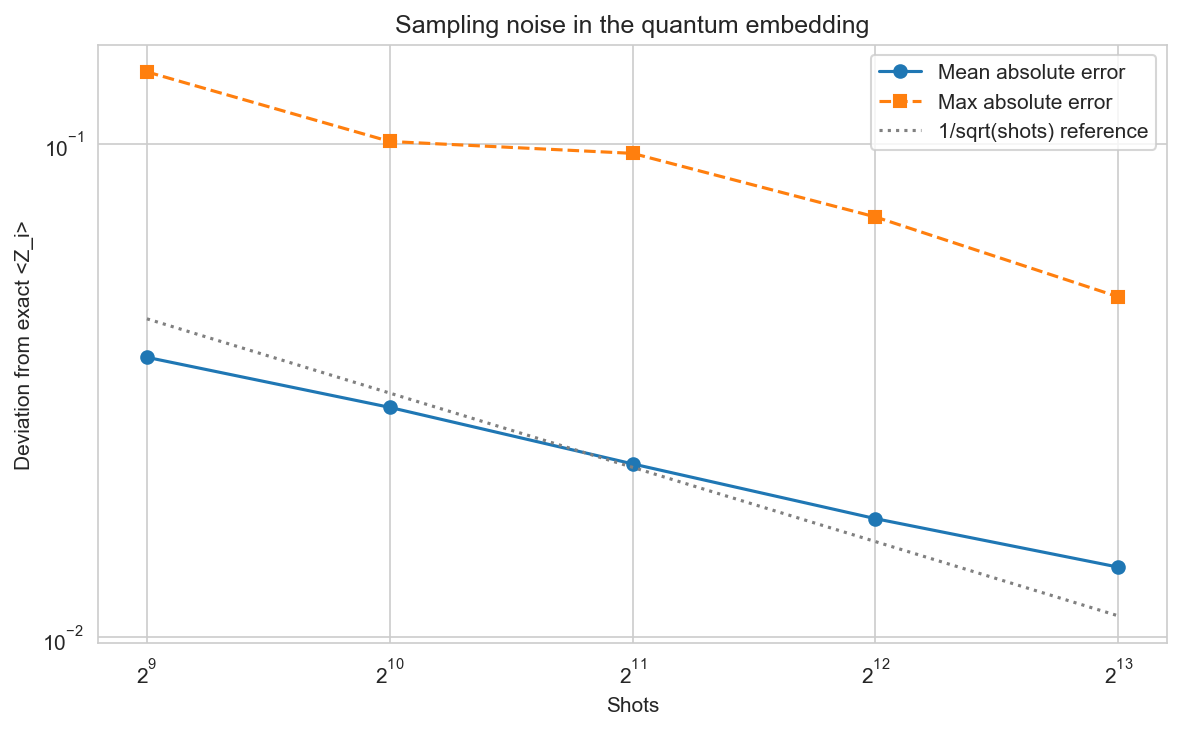
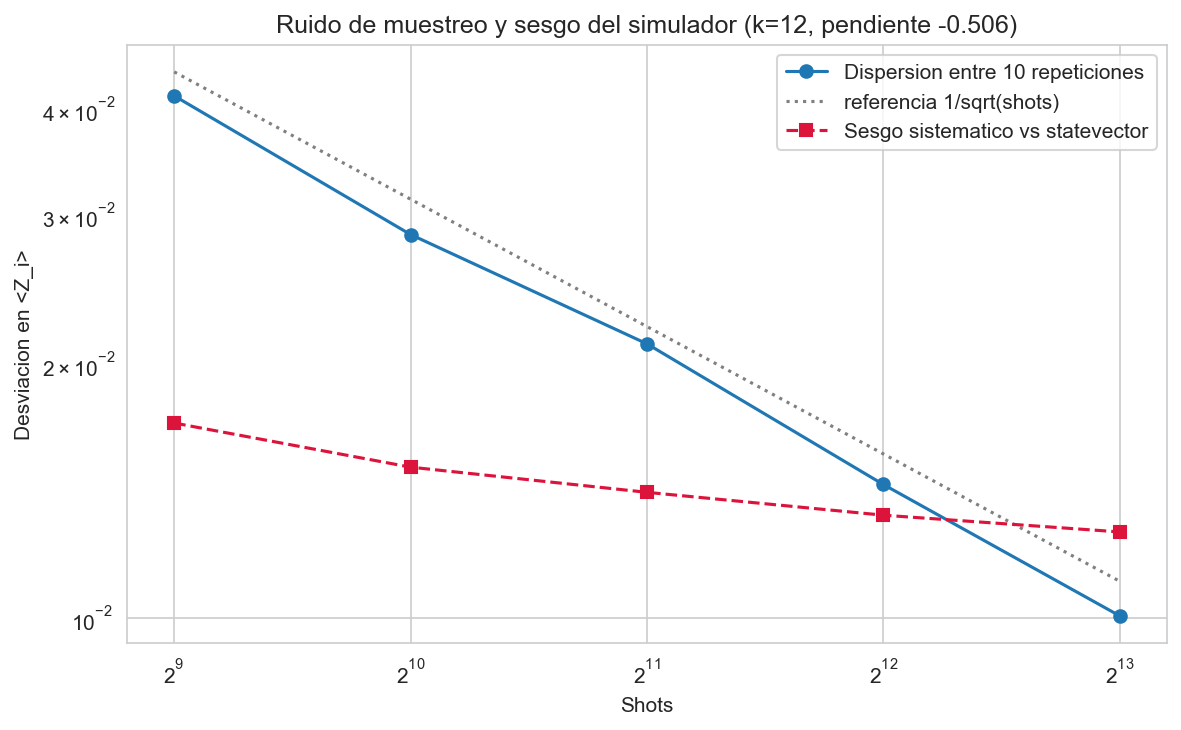
Medir el ruido de muestreo correctamente y registrar H-017
Se sustituye la figura E3: en lugar del error frente al cálculo exacto, que
quedaba dominado por el sesgo entre backends descrito en H-016, ahora reporta la
dispersión del estimador entre diez repeticiones con el mismo número de
disparos. Esa magnitud sí aísla la varianza estadística y su pendiente log-log
resulta -0.5065, frente a la teórica -0.5. La figura muestra además el sesgo en
la misma escala, para dejar ver que son dos fenómenos independientes.

Se añade H-017: el barrido de capas variacionales con un solo sorteo de theta no
permite concluir nada sobre la concentración del embedding. Los datos no son
monótonos ni consistentes entre valores de k, y la variación está dominada por
el sorteo. Queda en curso la repetición promediando diez sorteos por
configuración. La entrada recoge además la advertencia general: es el segundo
caso en el mismo día en que una medición de una sola realización produjo un
número engañoso, tras las fidelidades de H-012.

diff --git a/Other/bitacora_decisiones.md b/Other/bitacora_decisiones.md
@@ -60,6 +60,7 @@ Numeración correlativa, nunca se reutiliza. Si una decisión se revierte, **no 
 | H-014 | 2026-09-22 | La precisión de shots se ignora si se fija en el estimador | Invalidó la primera corrida de shots; riesgo de reproducibilidad |
 | H-015 | 2026-09-22 | SPSA es ~10× más rápido que parameter-shift; lin-comb es 5× más lento | Ningún gradiente rescata la Arquitectura A |
 | H-016 | 2026-09-23 | AerSimulator tiene un sesgo sistemático de ~0.013 frente a statevector | Invalidaba la figura del OE-6; obliga a medir el ruido de otra forma |
+| H-017 | 2026-09-23 | Un solo sorteo de θ no permite concluir nada sobre concentración del embedding | Obliga a promediar; advertencia metodológica general |
 
 ### Preguntas abiertas
 
@@ -601,6 +602,27 @@ Pendiente log-log de la dispersión: **−0.5065**, contra la teórica −0.5. L
 **Para el reporte.** Conviene presentarlo como dos observaciones separadas, porque lo son: el ruido de muestreo sigue la estadística esperada, y además el simulador introduce un sesgo constante respecto al cálculo exacto. Lo segundo es una restricción práctica del simulador y por tanto material directo del OE-6. **Queda sin identificar la causa del sesgo** (transpilación interna de Aer, redondeo del número de shots derivado de `default_precision`, u otra); investigarla si hay holgura, o declararla como limitación si no.
 
 **Datos.** `Code/results/7_shots_repetido.csv`, figura `Docs/Figures/E3_shots_sensitivity.png`.
+
+---
+
+### H-017 · Un solo sorteo de θ no sostiene ninguna conclusión sobre concentración
+**Fecha:** 2026-09-23 · **→ Reporte:** §8.x, OE-6
+
+Bajo Arquitectura B, θ queda fijo y aleatorio, lo que abre una pregunta legítima: ¿se concentra el embedding al aumentar la profundidad o el número de qubits, como haría esperar el fenómeno de mesetas áridas? Se midió la desviación estándar de ⟨Zᵢ⟩ entre 200 entradas, con **un** sorteo de θ por configuración:
+
+| k | reps=1 | reps=2 | reps=3 |
+|---|---|---|---|
+| 8 | 0.0544 | 0.0732 | 0.0908 |
+| 12 | 0.0337 | 0.0493 | 0.0301 |
+| 16 | 0.0373 | 0.0560 | 0.0248 |
+
+**No hay patrón.** A k=8 la dispersión *crece* con la profundidad; a k=12 y k=16 sube y luego baja. Tampoco es consistente entre valores de k.
+
+**Impacto.** La variación observada está dominada por **el sorteo de θ**, no por la profundidad ni por el número de qubits. Con una sola realización por configuración el experimento no distingue señal de ruido, y una figura construida así invitaría a leer una tendencia que los datos no sostienen.
+
+**Corrección en curso.** Repetición promediando **10 sorteos de θ por configuración**, reportando media y desviación entre sorteos. Solo si la separación entre configuraciones supera la dispersión entre sorteos se podrá afirmar algo.
+
+**Advertencia general que conviene retener.** Este es el segundo caso en el mismo día en que una medición de una sola realización produjo un número engañoso; el primero fueron las fidelidades de los conjuntos de Pauli en H-012, donde un único vector de entrada dio 0.000 para un candidato que promediando resulta ser de los más parecidos a ZZ. **Cualquier cantidad que dependa de un sorteo aleatorio —θ, el vector de entrada, la partición— debe reportarse como distribución, no como valor puntual.**
 
 ---
 
